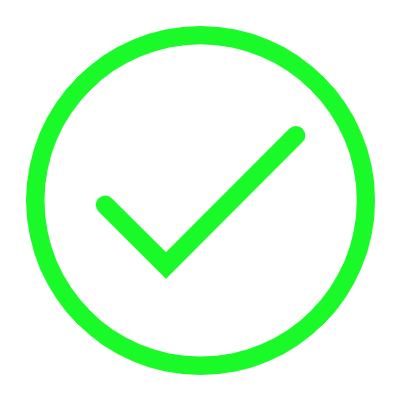
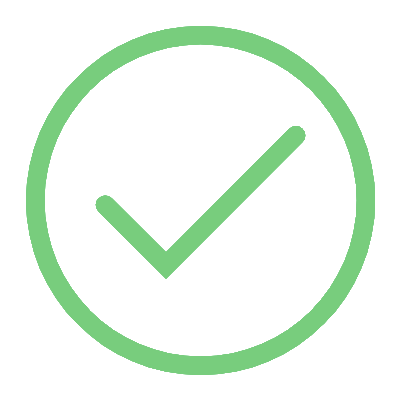
更新了app界面的左侧bar栏；修改了注册页面的细节

Changed region(s): [[0.06, 0.06, 0.96, 0.96], [0.24, 0.3, 0.78, 0.69]]

diff --git a/ToDoList/src/components/signup.vue b/ToDoList/src/components/signup.vue
@@ -117,11 +117,12 @@ export default {
   left: 0px;
   top: 0px;
   background-image: url(../assets/image/background.jpg);
+  caret-color: transparent;
 }
 
 .box {
   position: relative;
-  top: 15%;
+  top: 11%;
   border-radius: 25px;
   background-color: white;
   padding: 20px;
@@ -149,7 +150,7 @@ export default {
   margin: 0 auto;
   padding: 10px;
   padding-left: 50px;
-  height: 50px;
+  height: 40px;
   font-size: 20px;
   border: 0;
   outline: none;
@@ -165,6 +166,7 @@ export default {
   background-size: 30px 30px;
   border-bottom: #7a7af9 solid;
   animation: mymove 100ms 1 linear;
+  caret-color: #7a7af9;
 }
 
 .input[type="email"] {
@@ -178,7 +180,7 @@ export default {
   margin: 0 auto;
   padding: 10px;
   padding-left: 50px;
-  height: 50px;
+  height: 40px;
   font-size: 20px;
   border: 0;
   outline: none;
@@ -190,6 +192,7 @@ export default {
   background-size: 30px 30px;
   border-bottom: #7a7af9 solid;
   animation: mymove 100ms 1 linear;
+  caret-color: #7a7af9;
 }
 
 .send-message {
@@ -203,14 +206,14 @@ export default {
 }
 
 .input[type="security-code"] {
-  background: url(../assets/image/security-code.png) no-repeat 0.5% 53%;
+  background: url(../assets/image/security-code.png) no-repeat 1% 48%;
   background-size: 25px 25px;
   position: absolute;
   top: 44%;
   left: 50%;
   transform: translate(-50%, -50%);
   width: 350px;
-  height: 50px;
+  height: 40px;
   padding: 10px;
   padding-left: 50px;
   margin-top: 30px;
@@ -221,21 +224,22 @@ export default {
 }
 
 .input[type="security-code"]:focus {
-  background: url(../assets/image/security-code-focus.png) no-repeat 0.5% 53%;
+  background: url(../assets/image/security-code-focus.png) no-repeat 1% 48%;
   background-size: 25px 25px;
-  border-bottom: #2e2ed9 solid;
+  border-bottom: #7a7af9 solid;
   animation: mymove 100ms 1 linear;
+  caret-color: #7a7af9;
 }
 
 .input[type="password"] {
-  background: url(../assets/image/password.png) no-repeat 0.5% 53%;
+  background: url(../assets/image/password.png) no-repeat 1% 45%;
   background-size: 25px 25px;
   position: absolute;
   top: 56%;
   left: 50%;
   transform: translate(-50%, -50%);
   width: 350px;
-  height: 50px;
+  height: 40px;
   padding: 10px;
   padding-left: 50px;
   margin-top: 30px;
@@ -246,21 +250,22 @@ export default {
 }
 
 .input[type="password"]:focus {
-  background: url(../assets/image/password-focus.png) no-repeat 0.5% 53%;
+  background: url(../assets/image/password-focus.png) no-repeat 1% 45%;
   background-size: 25px 25px;
-  border-bottom: #2e2ed9 solid;
+  border-bottom: #7a7af9 solid;
   animation: mymove 100ms 1 linear;
+  caret-color: #7a7af9;
 }
 
 .input-again {
-  background: url(../assets/image/password.png) no-repeat 0.5% 53%;
+  background: url(../assets/image/password.png) no-repeat 1% 45%;
   background-size: 25px 25px;
   position: absolute;
   top: 68%;
   left: 50%;
   transform: translate(-50%, -50%);
   width: 350px;
-  height: 50px;
+  height: 40px;
   padding: 10px;
   padding-left: 50px;
   margin-top: 30px;
@@ -274,10 +279,11 @@ export default {
 }
 
 .input-again:focus {
-  background: url(../assets/image/password-focus.png) no-repeat 0.5% 53%;
+  background: url(../assets/image/password-focus.png) no-repeat 1% 45%;
   background-size: 25px 25px;
-  border-bottom: #2e2ed9 solid;
+  border-bottom: #7a7af9 solid;
   animation: mymove 100ms 1 linear;
+  caret-color: #7a7af9;
 }
 
 @keyframes mymove {
@@ -318,7 +324,7 @@ export default {
   padding-left: 20px;
   background-size: 16px 16px;
   background-position: left;
-  color: #1afa29;
+  color: #78cd7d;
   font-size: small;
 }
 
@@ -350,7 +356,7 @@ export default {
   background-color: #7a7af9;
   color: white;
   position: absolute;
-  top: 88%;
+  top: 85%;
   left: 8%;
   width: 410px;
   height: 45px;

diff --git a/ToDoList/src/components/app.vue b/ToDoList/src/components/app.vue
@@ -7,9 +7,14 @@
 
             <div class="content">
                 <div class="sidebar">
-                    <h1>清单</h1>
-                    <h1>日程</h1>
-                    <h1>专注</h1>
+                    <img v-if="ModeChosen != 'ToDoList'" src="../assets/image/app-leftbar-todolist.png" class="leftbar-icon" @click="ChangeMode('ToDoList')" />
+                    <img v-else src="../assets/image/app-leftbar-todolist-focus.png" class="leftbar-icon" />
+                    <br/>
+                    <img v-if="ModeChosen != 'TimeTable'" src="../assets/image/app-leftbar-timetable.png" class="leftbar-icon" @click="ChangeMode('TimeTable')" />
+                    <img v-else src="../assets/image/app-leftbar-timetable-focus.png" class="leftbar-icon" />
+                    <br/>
+                    <img v-if="ModeChosen != 'Concentration'"  src="../assets/image/app-leftbar-concentrate.png" class="leftbar-icon" @click="ChangeMode('Concentration')" />
+                    <img v-else src="../assets/image/app-leftbar-concentrate-focus.png" class="leftbar-icon" />
                 </div>
                 <div class="maincontent">
                     <h1>网页正文</h1>
@@ -30,14 +35,13 @@ export default {
     name: 'toDoList',
     data() {
         return {
-            NameAndPassword: {
-                username: '',
-                password: '',
-            }
+            ModeChosen: "ToDoList"
         }
     },
     methods: {
-
+        ChangeMode(modechosen){
+            this.ModeChosen = modechosen;
+        }
 
     },
 }
@@ -83,7 +87,10 @@ body {
     top: 0;
     position: relative;
     height: 100%;
-    background: #a4f;
+    padding-top: 10px;
+    padding-left: 15px;
+    padding-right: 15px;
+    background: #e2e2fe;
     font-size: 20px;
 }
 
@@ -104,5 +111,14 @@ body {
     height: 100%;
     background-color: aqua;
 }
+
+
+.leftbar-icon {
+    margin-top: 20px;
+    height : 25px;
+    cursor: pointer;
+}
+
+
 </style>
   

diff --git a/Backend/db/userdata.js b/Backend/db/userdata.js
@@ -55,9 +55,9 @@ await User.sync({
     match: /_dev$/
 })
 
-await User.create({
-    username: 'dev',
-    passwordHash: 'dev'
-})
+// await User.create({
+//     username: 'dev',
+//     passwordHash: 'dev'
+// })
 
 export { db as UserdataDB, User }

diff --git a/ToDoList/src/components/main.vue b/ToDoList/src/components/main.vue
@@ -7,7 +7,7 @@
 export default {
     name: 'MainProject',
     data() {
-
+        
     },
     methods: {
 
